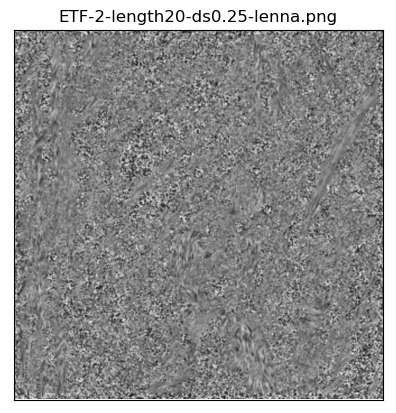
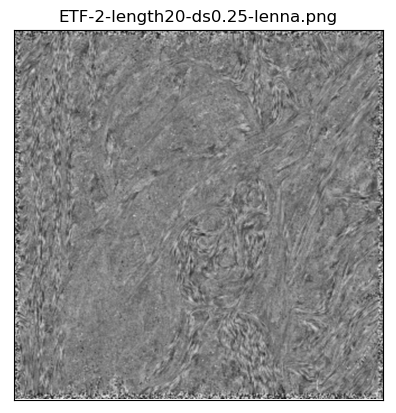
[UPDATE] Modifying DoG.py

diff --git a/edge-detection/DoG.py b/edge-detection/DoG.py
@@ -12,9 +12,9 @@ class Main:
 
     def __init__(self):
 
-        # self.img = './Image/lenna.png'
-        self.img = './Image/circle.jpg'
-        # self.img = './Image/butterfly.png'
+        # self.img = './Image/lenna2.png'
+        # self.img = './Image/circle.jpg'
+        self.img = './Image/butterfly.png'
         self.original_img = cv2.imread(self.img, cv2.IMREAD_GRAYSCALE)
 
         self.height = self.original_img.shape[0]
@@ -27,7 +27,8 @@ class Main:
         sigma = float(sigma)
         x, y = np.mgrid[-size:size + 1, -size_y:size_y + 1]
         g = np.exp(-(x ** 2 + y ** 2) / (2 * (sigma ** 2))) / (sigma ** 2 * (2 * math.pi))
-        return g / g.sum()
+        result = g/g.sum()
+        return result
 
     def difference_of_gaussian(self, ksize, ksize_y, sigma1, sigma2):
 
@@ -59,6 +60,8 @@ class Main:
 
                 gaussian_local_matrix1 = np.dot(gaussian_kernel1, local_matrix)
                 gaussian_local_matrix2 = np.dot(gaussian_kernel2, local_matrix)
+                # gaussian_local_matrix1 = np.dot(local_matrix, gaussian_kernel1)
+                # gaussian_local_matrix2 = np.dot(local_matrix, gaussian_kernel2)
 
                 g1 = 0
                 g2 = 0
@@ -73,8 +76,8 @@ class Main:
 
         for h in range(k, self.height-k):
             for w in range(k, self.width-k):
-                difference_of_gaussian_img.itemset(h, w, gaussian_field[h][w][0] - gaussian_field[h][w][1])
-
+                difference_of_gaussian_img.itemset(h, w, -gaussian_field[h][w][0] + gaussian_field[h][w][1])
+        #          여 부분에서 뺀 값 바로 set하지 말고 overflow?되는 거 같은데 threshold 지정해줘볼까?
         return difference_of_gaussian_img
 
     def __main__(self):
@@ -83,22 +86,26 @@ class Main:
         # difference_of_gaussian2 = self.difference_of_gaussian(2, 2, 1.0, 2.0)
         # difference_of_gaussian3 = self.difference_of_gaussian(4, 1, 1.0, 1.5)
         # difference_of_gaussian4 = self.difference_of_gaussian(4, 1, 1.0, 2.0)
-        difference_of_gaussian5 = self.difference_of_gaussian(1, 4, 1.0, 1.5)
-        difference_of_gaussian6 = self.difference_of_gaussian(1, 4, 1.0, 2.0)
+        # difference_of_gaussian5 = self.difference_of_gaussian(1, 4, 1.0, 1.5)
+        # difference_of_gaussian6 = self.difference_of_gaussian(1, 4, 1.0, 2.0)
+        dog1 = self.difference_of_gaussian(1, 1, 1.0, 1.4)
+        dog2= self.difference_of_gaussian(1, 1, 1.0, 1.6)
 
         # UI
-        images = [#difference_of_gaussian1, difference_of_gaussian2, difference_of_gaussian3, difference_of_gaussian4,
-                  difference_of_gaussian5, difference_of_gaussian6]
-        titles = [#'k2-2/s1.0-1.5', 'k2-2/s1.0-2.0', 'k4-1/s1.0-1.5', 'k4-1/s1.0-2.0',
-                  'k1-4/s1.0-1.5', 'k1-4/s1.0-2.0']
-
-        for i in range(0, 6):
-            plt.subplot(2, 3, i + 1)
+        # images = [difference_of_gaussian1, difference_of_gaussian2, difference_of_gaussian3, difference_of_gaussian4,
+        #           difference_of_gaussian5, difference_of_gaussian6]
+        # titles = ['k2-2/s1.0-1.5', 'k2-2/s1.0-2.0', 'k4-1/s1.0-1.5', 'k4-1/s1.0-2.0',
+        #           'k1-4/s1.0-1.5', 'k1-4/s1.0-2.0']
+        images = [dog1, dog2]
+        titles = ['k1-1/s1.0-1.4', 'k1-1/s1.0-1.6']
+        for i in range(0, 2):
+            plt.subplot(1, 2, i + 1)
             plt.imshow(images[i], cmap='gray', interpolation='bicubic'), plt.title([titles[i]])
             plt.xticks([]), plt.yticks([])
         # plt.savefig('./Output/DoGSelf/difference-of-gaussian-butterfly.png', bbox_inches='tight')
-        plt.savefig('difference-of-gaussian-circle2.png', bbox_inches='tight')
+        plt.savefig('DoG-reversediff-butterfly.png', bbox_inches='tight')
         plt.show()
+
 
 
 if __name__ == '__main__':
